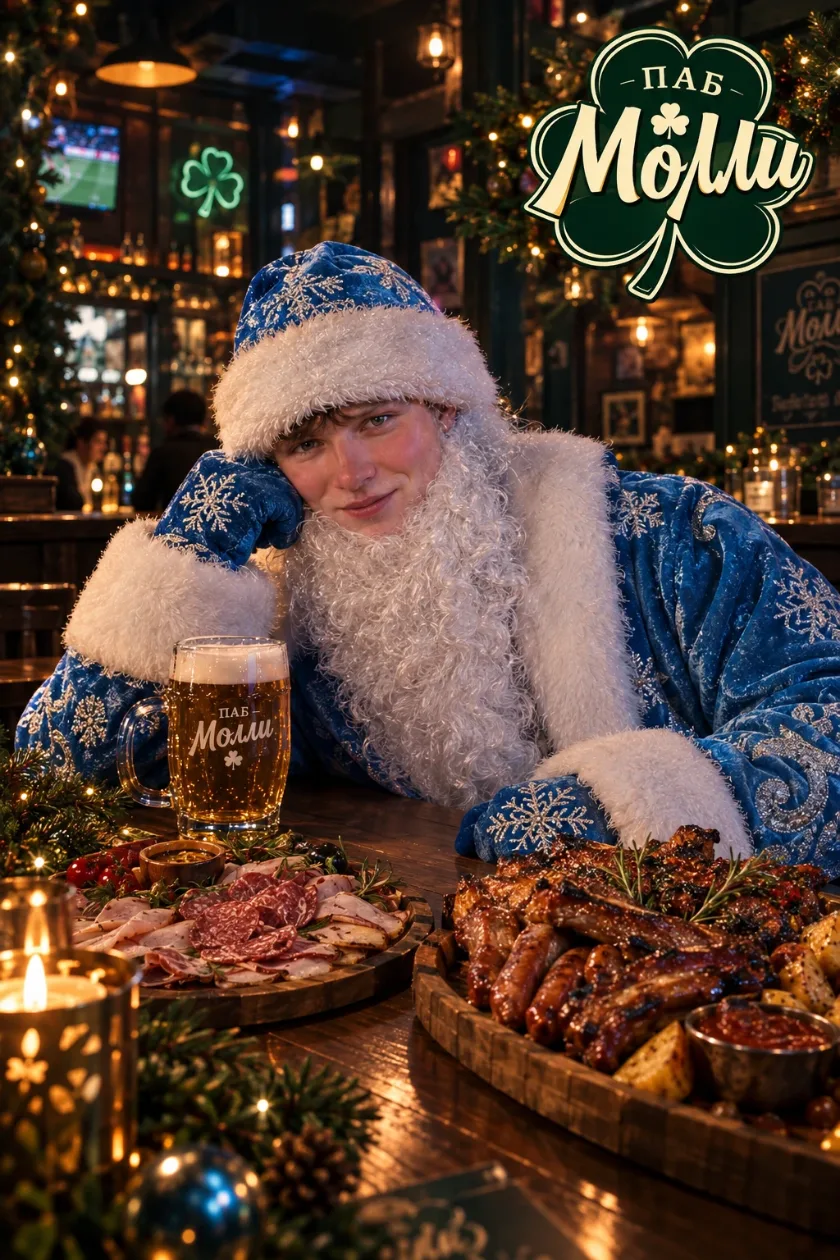
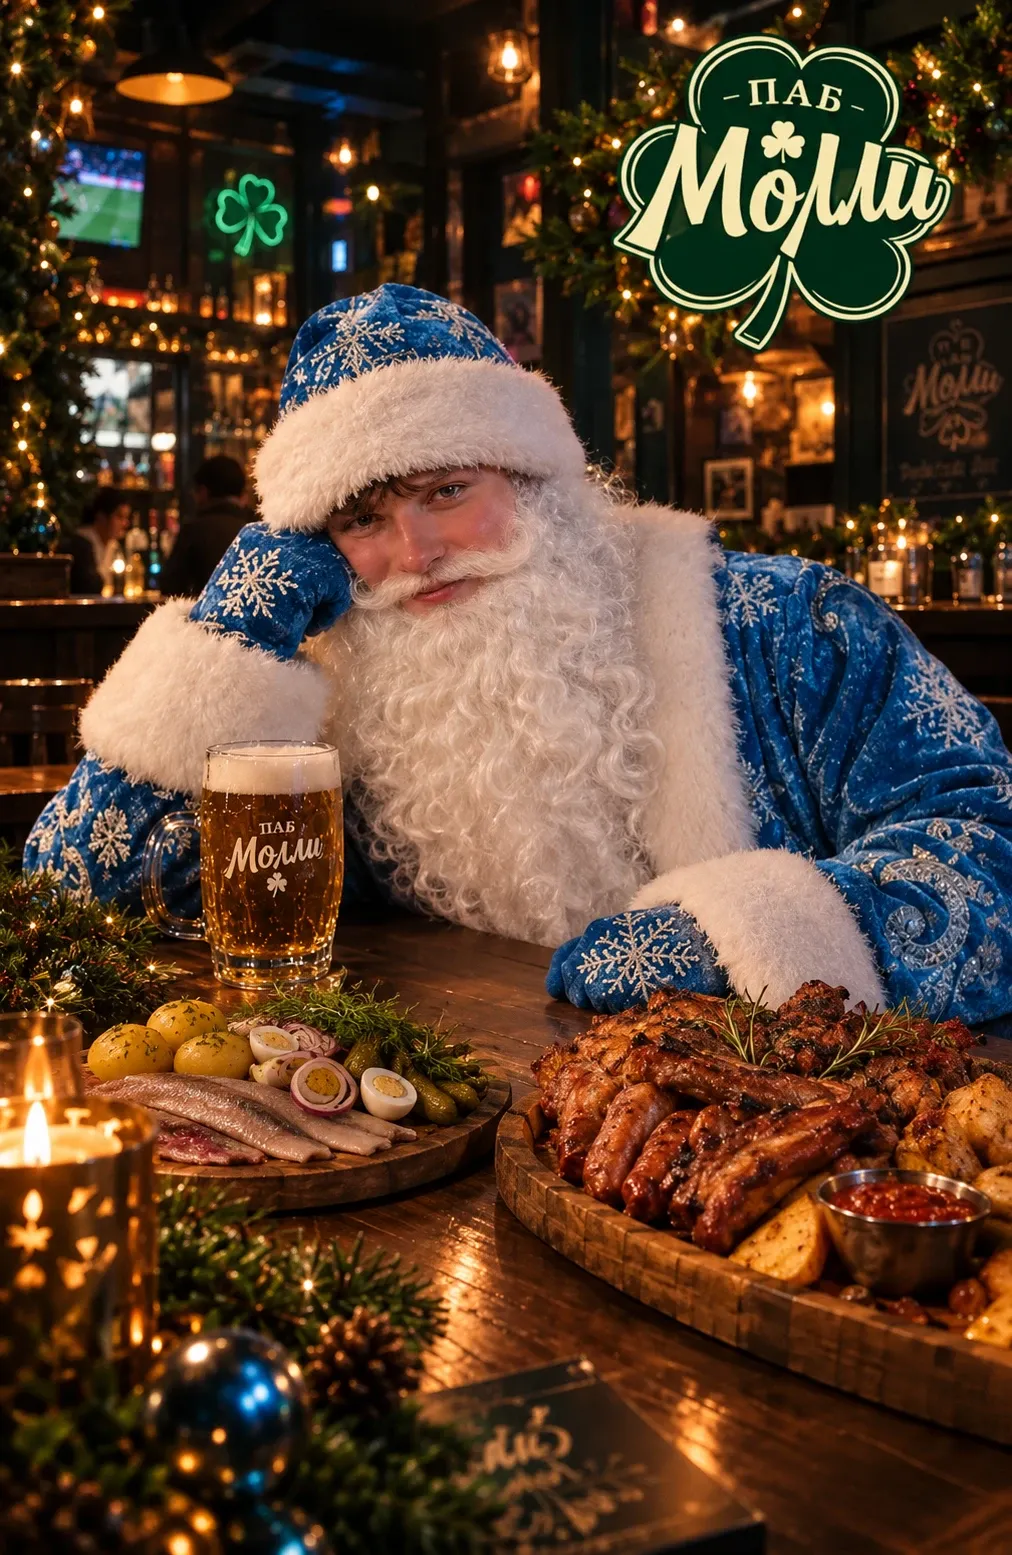
Новое фото Деда Мороза и строчка из «Ну, погоди!»
Кадр заменён на присланный: тот же сюжет, но крупнее и лучше собран —
видно и накрытый стол, и вывеску паба. Исходник 1012×1555 и 377 КБ,
на сайте 239 КБ.

Под кадром появилась подпись «Расскажи, Снегурочка, где была…» —
её все знают, а на странице как раз обещаны две Снегурочки.

Рамку и подпись пришлось развести: рамка обрезает кадр по 2:3
и прячет всё лишнее через overflow, так что подпись внутри неё
просто исчезла бы. Теперь обрезает внутренний блок, а figure
держит кадр и строку под ним.

diff --git a/style.css b/style.css
@@ -1997,17 +1997,24 @@ body.cookie-open .ng-back{bottom:190px}
 body.ng .ftr{padding-bottom:96px}
 
 /* ---------- Дед Мороз рядом с программой вечера ----------
-   Кадр показываем целиком, 2:3 как в исходнике: обрезать нечего.
+   Рамка и подпись разведены: рамка обрезает кадр по 2:3, и подпись
+   внутри неё просто исчезла бы под overflow:hidden. Поэтому обрезает
+   внутренний блок, а figure держит кадр и строку под ним.
    Кружка на стойке — это интерьер зала, а не реклама напитка:
    ни марки, ни цены, ни призыва в кадре нет. */
-.ng-prog-photo{
+.ng-prog-photo{margin:0}
+.ng-prog-frame{
   aspect-ratio:2/3;overflow:hidden;border-radius:3px;
   border:1px solid var(--line);
   box-shadow:0 16px 34px rgba(0,0,0,.45);
 }
-.ng-prog-photo img{
+.ng-prog-frame img{
   width:100%;height:100%;object-fit:cover;object-position:center;
   display:block;
+}
+.ng-prog-photo figcaption{
+  margin-top:12px;font-family:var(--serif);font-size:15.5px;
+  color:var(--brass-bright);text-align:center;line-height:1.45;
 }
 @media(max-width:1099px){
   .ng-prog-photo{max-width:420px;margin:0 auto}

diff --git a/novyi-god.html b/novyi-god.html
@@ -105,9 +105,12 @@
     </div>
 
     <div class="ng-side">
-      <div class="ng-prog-photo">
-        <img src="images/ded-moroz.webp" alt="Дед Мороз за новогодним столом в пабе «Молли»" width="840" height="1260" loading="lazy">
-      </div>
+      <figure class="ng-prog-photo">
+        <div class="ng-prog-frame">
+          <img src="images/ded-moroz.webp" alt="Дед Мороз за новогодним столом в пабе «Молли»" width="1012" height="1555" loading="lazy">
+        </div>
+        <figcaption>«Расскажи, Снегурочка, где была…»</figcaption>
+      </figure>
       <div class="ng-prog rv">
         <div class="ng-card">
           <h3>Фотозона</h3>
